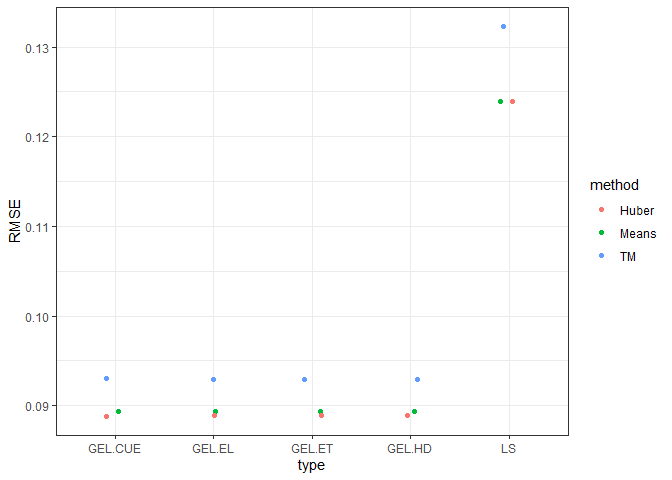
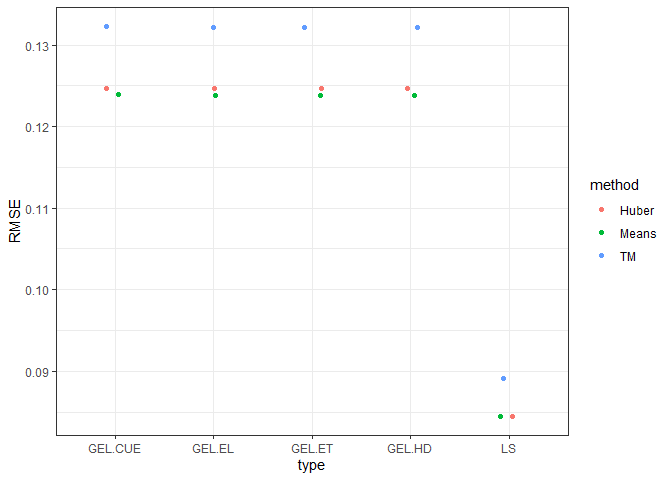
Corrected code for the simulation result vizualization

diff --git a/RobCovGEL.md b/RobCovGEL.md
@@ -551,7 +551,7 @@ conf.nominal = 0.95, fact = 4) {
     ci4[i, ] <- confint.poss(rez.et, level = conflev.TM,
                              type = "invLR", fact = fact)
     #GEL, HD
-    rez.hd <- gel(g.means, x = cbind(yt,zt, x1t),
+    rez.hd <- gel(g.means, x = cbind(yt, zt, x1t),
                   tet = tet.init,
                   type = "HD")
     tet5[i, ] <- rez.hd$coefficients
@@ -638,10 +638,6 @@ simrez2 <- sim_1cov(n, z, data.norm, alpha = 0, conf.nominal = 0.95, fact = 4)
 ### GEL for Huber estimators
 
 ``` r
-data <- data.norm
-conf.nominal=0.95
-fact=4
-
 sim_hub <- function(n, z, data, tet0 = c(0, 0, 0),
                 conf.nominal = 0.95, fact = 4)  {
  ### Input
@@ -673,9 +669,9 @@ sim_hub <- function(n, z, data, tet0 = c(0, 0, 0),
     #Define moment conditions
     gh <- function(tet, W)
     {
-      y<-W[, 1]
-      z<-W[, 2]
-      x<-W[, 3]
+      y <- W[, 1]
+      z <- W[, 2]
+      x <- W[, 3]
       m1 <- y - tet[2] - tet[1] * z
       m2 <- z * (y - tet[2] - tet[1] * z)
       m3 <- smpsi((x - tet[3]) / s) 
@@ -753,10 +749,10 @@ simrez3 <- sim_hub(n, z, data.norm,
 Let’s compare the estimation of $\Delta$ with the three methods above.
 
 ``` r
-RMSE <- rbind(simrez1$RMSE[2, ], simrez2$RMSE[2, ], simrez3$RMSE[2, ]) %>%  as.data.frame()
+RMSE <- rbind(simrez1$RMSE["delta", ], simrez2$RMSE["delta", ], simrez3$RMSE["delta", ]) %>%  as.data.frame()
 RMSE$method <- c("TM", "Means", "Huber")
 
-bias <- rbind(simrez1$bias[2, ], simrez2$bias[2, ], simrez3$bias[2, ])  %>%  as.data.frame()
+bias <- rbind(simrez1$bias["delta", ], simrez2$bias["delta", ], simrez3$bias["delta", ])  %>%  as.data.frame()
 bias$method <- c("TM", "Means", "Huber")
 
 length <- rbind(simrez1$ci.length, simrez2$ci.length, simrez3$ci.length)  %>%  as.data.frame()
